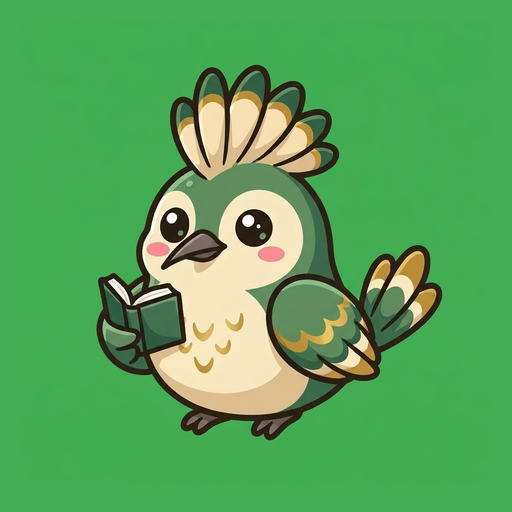
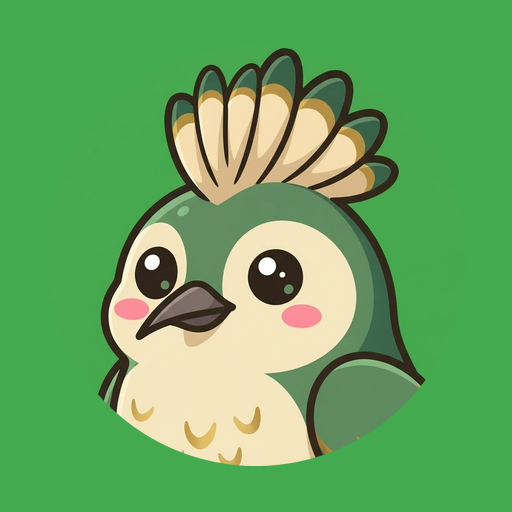
Ikon PWA terpasang (maskable): pakai kepala maskot, bukan seluruh badan; sumber ikon disatukan

diff --git a/sw.js b/sw.js
@@ -1,6 +1,6 @@
 /* Service worker QURO: simpan semua file aplikasi agar bisa dibuka tanpa internet.
    File ini dibuat otomatis oleh tools/make-sw.js. Jangan diedit langsung. */
-const VERSION="quro-6348ca9399";
+const VERSION="quro-e569039aea";
 const SHELL=["./","assets/emoji.js","assets/fonts/LICENSE-Amiri.txt","assets/fonts/LICENSE-Nunito.txt","assets/fonts/amiri-arabic-700-normal.woff2","assets/fonts/amiri-latin-700-normal.woff2","assets/fonts/nunito-latin-ext-wght-normal.woff2","assets/fonts/nunito-latin-wght-normal.woff2","assets/lib/qrcode.min.js","assets/mascot/bingung.webp","assets/mascot/iqro1.webp","assets/mascot/iqro2.webp","assets/mascot/iqro3.webp","assets/mascot/iqro4.webp","assets/mascot/iqro5.webp","assets/mascot/iqro6.webp","assets/mascot/melambai.webp","assets/mascot/ngantuk.webp","assets/mascot/rayakan.webp","assets/mascot/sedih.webp","assets/mascot/semangat.webp","assets/mascot/senang.webp","assets/mascot/utama.webp","assets/mascot.js","css/animations.css","css/base.css","css/components.css","css/fonts.css","css/reader.css","css/share.css","css/tailwind.css","data/community.js","data/games.js","data/harakat.js","data/iqro.js","data/iqro1-buku.js","data/iqro2-6-buku.js","data/latihan.js","data/letters.js","data/pola.js","data/shop.js","data/tajwid.js","games/_shared/kit.css","games/_shared/kit.js","games/_shared/theme.js","games/cari-huruf/game.js","games/cari-huruf/index.html","games/dengar-pilih/game.js","games/dengar-pilih/index.html","games/index.html","games/lanjutkan-huruf/game.js","games/lanjutkan-huruf/index.html","games/lobby.js","games/memory-huruf/game.js","games/memory-huruf/index.html","games/memory-huruf/style.css","games/susun-huruf/game.js","games/susun-huruf/index.html","games/tebak-huruf/game.js","games/tebak-huruf/index.html","games/telusuri/game.js","games/telusuri/index.html","icons/apple-touch-icon.png","icons/favicon-48.png","icons/favicon.svg","icons/icon-192.png","icons/icon-512.png","icons/icon-maskable-512.png","index.html","js/backup.js","js/cloud-config.js","js/cloud.js","js/core.js","js/events.js","js/games.js","js/helpers.js","js/icons.js","js/main.js","js/nav-fix.js","js/offline.js","js/perf.js","js/progress.js","js/ptr.js","js/quiz.js","js/reader.js","js/settings.js","js/share-profile.js","js/shop.js","js/state.js","js/tajwid.js","js/update.js","js/version.js","js/views/auth.js","js/views/learn.js","js/views/practice.js","js/views/preferences.js","js/views/profile.js","js/views/social.js","manifest.webmanifest","supabase/schema.sql"];
 self.addEventListener("install",e=>{e.waitUntil(caches.open(VERSION).then(c=>c.addAll(SHELL)).then(()=>self.skipWaiting()))});
 self.addEventListener("activate",e=>{e.waitUntil(caches.keys().then(ks=>Promise.all(ks.filter(k=>k!==VERSION&&k.indexOf("quro-")===0).map(k=>caches.delete(k)))).then(()=>self.clients.claim()))});

diff --git a/js/version.js b/js/version.js
@@ -1,2 +1,2 @@
 /* Dibuat otomatis oleh tools/make-sw.js, jangan diedit. */
-const APP_VERSION="1.37",APP_DATE="15 Nov 2026";
+const APP_VERSION="1.38",APP_DATE="15 Nov 2026";

diff --git a/tools/make-icons-maskot.py b/tools/make-icons-maskot.py
@@ -1,14 +1,13 @@
 """Buat semua ikon aplikasi + favicon dari gambar maskot di tools/ikon-sumber/.
 Jalankan: python3 tools/make-icons-maskot.py   (butuh: pip install pillow)
-  ikon-utama.jpg    wajah maskot memenuhi kotak (gaya OCTO) -> icon-192/512, apple-touch-icon, favicon-48, favicon.svg
-  ikon-maskable.jpg maskot lebih kecil di tengah           -> icon-maskable-512 (aman dipotong bulat oleh Android)
+  ikon-utama.jpg    wajah maskot memenuhi kotak (gaya OCTO) -> icon-192/512, apple-touch-icon, favicon-48, favicon.svg,
+                    dan icon-maskable-512 (ikon yang terpasang di HP): kepala yang sama dalam lingkaran 82% di tengah (zona aman Android)
 Setelah itu jalankan: node tools/make-sw.js"""
 import base64,io,os
 from PIL import Image,ImageDraw
 R=os.path.join(os.path.dirname(os.path.abspath(__file__)),"..")
 S=os.path.join(R,"tools","ikon-sumber"); O=os.path.join(R,"icons")
 main=Image.open(os.path.join(S,"ikon-utama.jpg")).convert("RGB")
-mask=Image.open(os.path.join(S,"ikon-maskable.jpg")).convert("RGB")
 def rounded(img,r=0.22):
     img=img.convert("RGBA"); n=img.width*4
     m=Image.new("L",(n,n),0); ImageDraw.Draw(m).rounded_rectangle((0,0,n-1,n-1),radius=int(n*r),fill=255)
@@ -18,9 +17,11 @@ rounded(sq(main,512)).save(os.path.join(O,"icon-512.png"),optimize=True)
 rounded(sq(main,192)).save(os.path.join(O,"icon-192.png"),optimize=True)
 rounded(sq(main,48)).save(os.path.join(O,"favicon-48.png"),optimize=True)
 sq(main,180).convert("RGB").save(os.path.join(O,"apple-touch-icon.png"),optimize=True)   # iOS memotong sudut sendiri; jangan transparan
-# maskable: latar penuh sampai tepi, maskot 92% di tengah agar aman di lingkaran 80%
-bg=mask.getpixel((4,4)); m=Image.new("RGB",(512,512),bg); k=round(512*0.92)
-m.paste(sq(mask,k),((512-k)//2,(512-k)//2)); m.save(os.path.join(O,"icon-maskable-512.png"),optimize=True)
+# maskable (ikon PWA yang terpasang): kepala yang sama, dipotong lingkaran yang memuat jambul + wajah, diameter 82% kanvas = di dalam zona aman 80%
+bg=main.getpixel((6,6)); N=512; d=round(N*0.82); cx,cy,r=520,540,480
+head=main.crop((cx-r,cy-r,cx+r,cy+r)).resize((d,d),Image.LANCZOS).convert("RGBA")
+mk=Image.new("L",(d*4,d*4),0); ImageDraw.Draw(mk).ellipse((0,0,d*4-1,d*4-1),fill=255); head.putalpha(mk.resize((d,d),Image.LANCZOS))
+m=Image.new("RGBA",(N,N),bg+(255,)); m.alpha_composite(head,((N-d)//2,(N-d)//2)); m.convert("RGB").save(os.path.join(O,"icon-maskable-512.png"),optimize=True)
 # favicon.svg: gambar kecil di dalam SVG bersudut bulat
 buf=io.BytesIO(); sq(main,96).save(buf,"PNG",optimize=True)
 b64=base64.b64encode(buf.getvalue()).decode()
